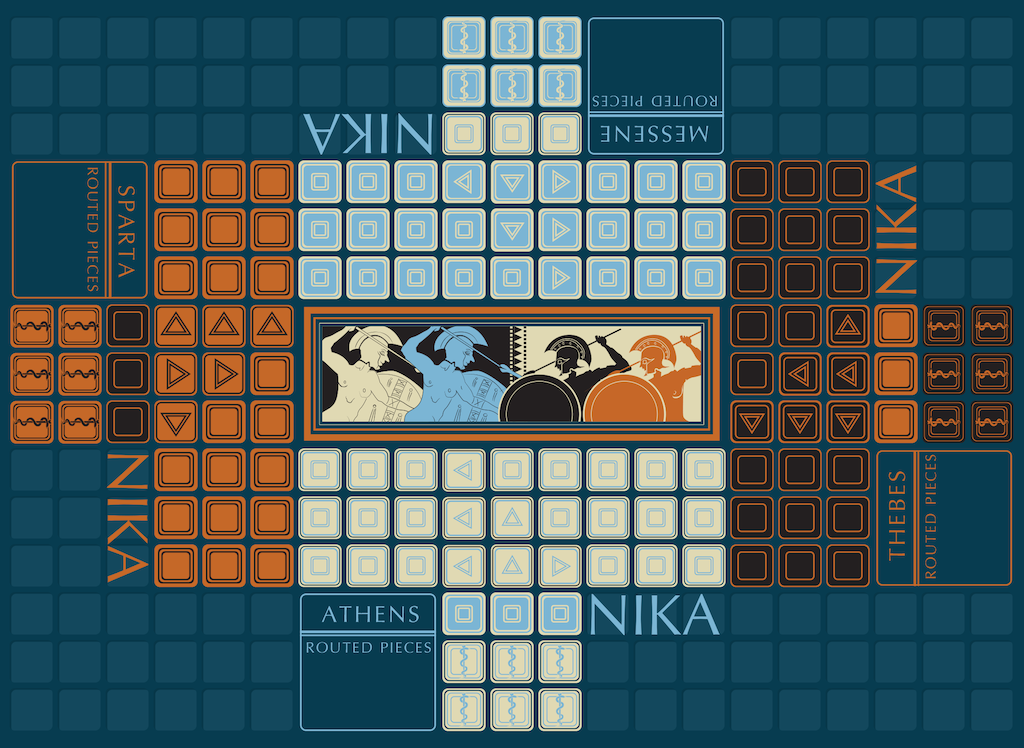
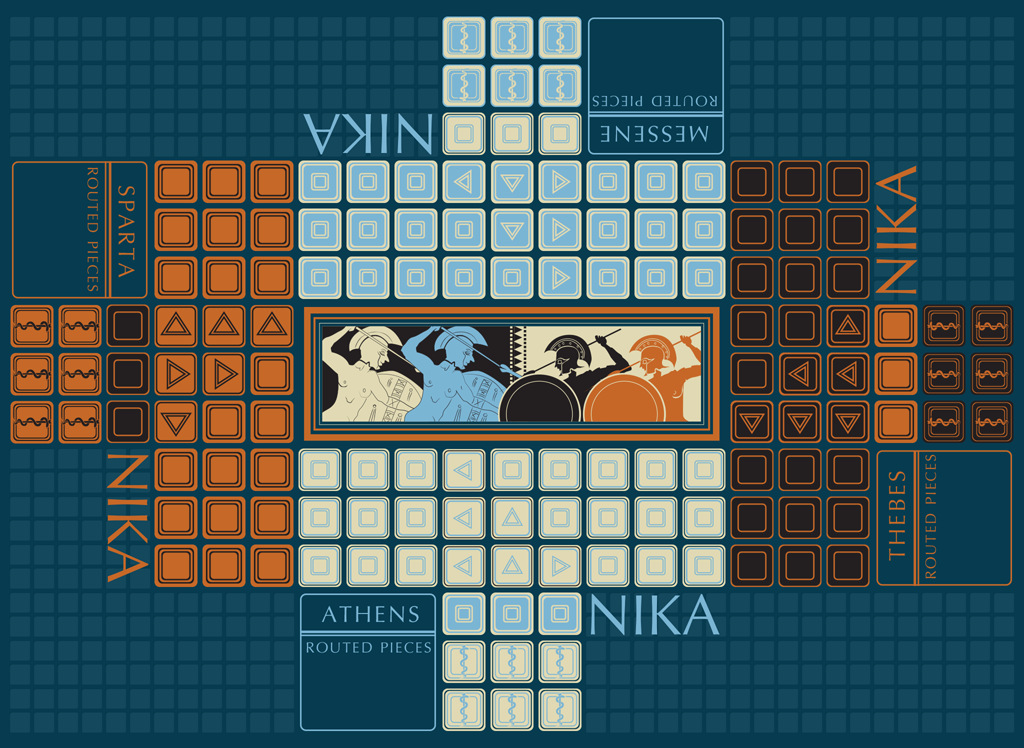
new art!

diff --git a/main.js b/main.js
@@ -13,12 +13,13 @@ function init() {
 	gridOffsetX *= scale;
 	gridOffsetY *= scale;
 	
-	images = new Array(5);
+	images = new Array(6);
 	images[0] = document.getElementById("athens");
 	images[1] = document.getElementById("sparta");
 	images[2] = document.getElementById("mesene");
 	images[3] = document.getElementById("thebes");
-	images[4] = document.getElementById("board");
+	images[4] = document.getElementById("shadow");
+	images[5] = document.getElementById("board");
 	
 	if ("ontouchstart" in window) {
 		window.addEventListener("touchstart", mouseDown);
@@ -55,8 +56,8 @@ function draw() {
 		
 		drawBoard();
 		drawPieces();
-		drawHighlight();
 		drawPhalanx();
+		drawHighlight();
 		
 		context.restore();
 		drawMan.draw = false;
@@ -71,7 +72,7 @@ function draw() {
 }
 
 function drawBoard() {
-	context.drawImage(images[4], 0, 0, canvas.width, canvas.height);
+	context.drawImage(images[5], 0, 0, canvas.width, canvas.height);
 }
 
 function drawPieces() {
@@ -82,18 +83,11 @@ function drawPieces() {
 				context.translate(col * cellSize + cellSize/2 + gridOffsetX, row * cellSize + cellSize/2 + gridOffsetY);
 				context.rotate(grid[row][col].rot * Math.PI/2);
 				context.drawImage(images[grid[row][col].player], -pieceSize/2, -pieceSize/2, pieceSize, pieceSize);
+				context.rotate(grid[row][col].rot * -Math.PI/2);	// ugh waste
+				context.drawImage(images[4], -pieceSize/2, -pieceSize/2, pieceSize, pieceSize);
 				context.restore();
 			}
 		}
-	}
-}
-
-function drawHighlight() {
-	if (inputMan.click && checkMove(inputMan.pieceRow, inputMan.pieceCol, inputMan.row, inputMan.col)) {
-		context.strokeStyle = "green";
-		context.beginPath();
-		context.arc(inputMan.col * cellSize + cellSize/2 + gridOffsetX, inputMan.row * cellSize + cellSize/2 + gridOffsetY, pieceSize/2 + 1, 0, Math.PI*2);
-		context.stroke();
 	}
 }
 
@@ -105,6 +99,15 @@ function drawPhalanx() {
 			context.arc(phalanx[i].col * cellSize + cellSize/2 + gridOffsetX, phalanx[i].row * cellSize + cellSize/2 + gridOffsetY, pieceSize/2 + 1, 0, Math.PI*2);
 			context.stroke();
 		}
+	}
+}
+
+function drawHighlight() {
+	if (inputMan.click && checkMove(inputMan.pieceRow, inputMan.pieceCol, inputMan.row, inputMan.col)) {
+		context.strokeStyle = "green";
+		context.beginPath();
+		context.arc(inputMan.col * cellSize + cellSize/2 + gridOffsetX, inputMan.row * cellSize + cellSize/2 + gridOffsetY, pieceSize/2 + 1, 0, Math.PI*2);
+		context.stroke();
 	}
 }
 

diff --git a/index2.html b/index2.html
@@ -23,10 +23,11 @@ var zoomLevel = 1.5;
 </head>
 <body style="margin:0px; background-color:#073c50">
 	<div style="width:2048px; height:1496px; margin-left:auto; margin-right:auto; position:relative">
-		<img src="athens.png" id="athens" style="display:none"/>
-		<img src="sparta.png" id="sparta" style="display:none"/>
-		<img src="mesene.png" id="mesene" style="display:none"/>
-		<img src="thebes.png" id="thebes" style="display:none"/>
+		<img src="athens80.png" id="athens" style="display:none"/>
+		<img src="sparta80.png" id="sparta" style="display:none"/>
+		<img src="mesene80.png" id="mesene" style="display:none"/>
+		<img src="thebes80.png" id="thebes" style="display:none"/>
+		<img src="shadow80.png" id="shadow" style="display:none"/>
 		<img src="board2048.png" id="board" style="display:none"/>
 		<canvas id="canvas" width=2048 height=1496></canvas>
 	</div>

diff --git a/index.html b/index.html
@@ -23,10 +23,11 @@ var zoomLevel = 2;
 </head>
 <body style="margin:0px; background-color:#073c50">
 	<div style="width:1024px; height:748px; margin-left:auto; margin-right:auto; position:relative">
-		<img src="athens.png" id="athens" style="display:none"/>
-		<img src="sparta.png" id="sparta" style="display:none"/>
-		<img src="mesene.png" id="mesene" style="display:none"/>
-		<img src="thebes.png" id="thebes" style="display:none"/>
+		<img src="athens80.png" id="athens" style="display:none"/>
+		<img src="sparta80.png" id="sparta" style="display:none"/>
+		<img src="mesene80.png" id="mesene" style="display:none"/>
+		<img src="thebes80.png" id="thebes" style="display:none"/>
+		<img src="shadow80.png" id="shadow" style="display:none"/>
 		<img src="board2048.png" id="board" style="display:none"/>
 		<canvas id="canvas" width=1024 height=748></canvas>
 	</div>

diff --git a/index0.html b/index0.html
@@ -19,10 +19,11 @@ var zoomLevel = 2.5;
 </script>
 </head>
 <body style="margin:0px; background-color:#073c50">
-	<img src="athens.png" id="athens" style="display:none"/>
-	<img src="sparta.png" id="sparta" style="display:none"/>
-	<img src="mesene.png" id="mesene" style="display:none"/>
-	<img src="thebes.png" id="thebes" style="display:none"/>
+	<img src="athens80.png" id="athens" style="display:none"/>
+	<img src="sparta80.png" id="sparta" style="display:none"/>
+	<img src="mesene80.png" id="mesene" style="display:none"/>
+	<img src="thebes80.png" id="thebes" style="display:none"/>
+	<img src="shadow80.png" id="shadow" style="display:none"/>
 	<img src="board2048.png" id="board" style="display:none"/>
 	<canvas id="canvas" width=1024 height=748></canvas>
 </body>
